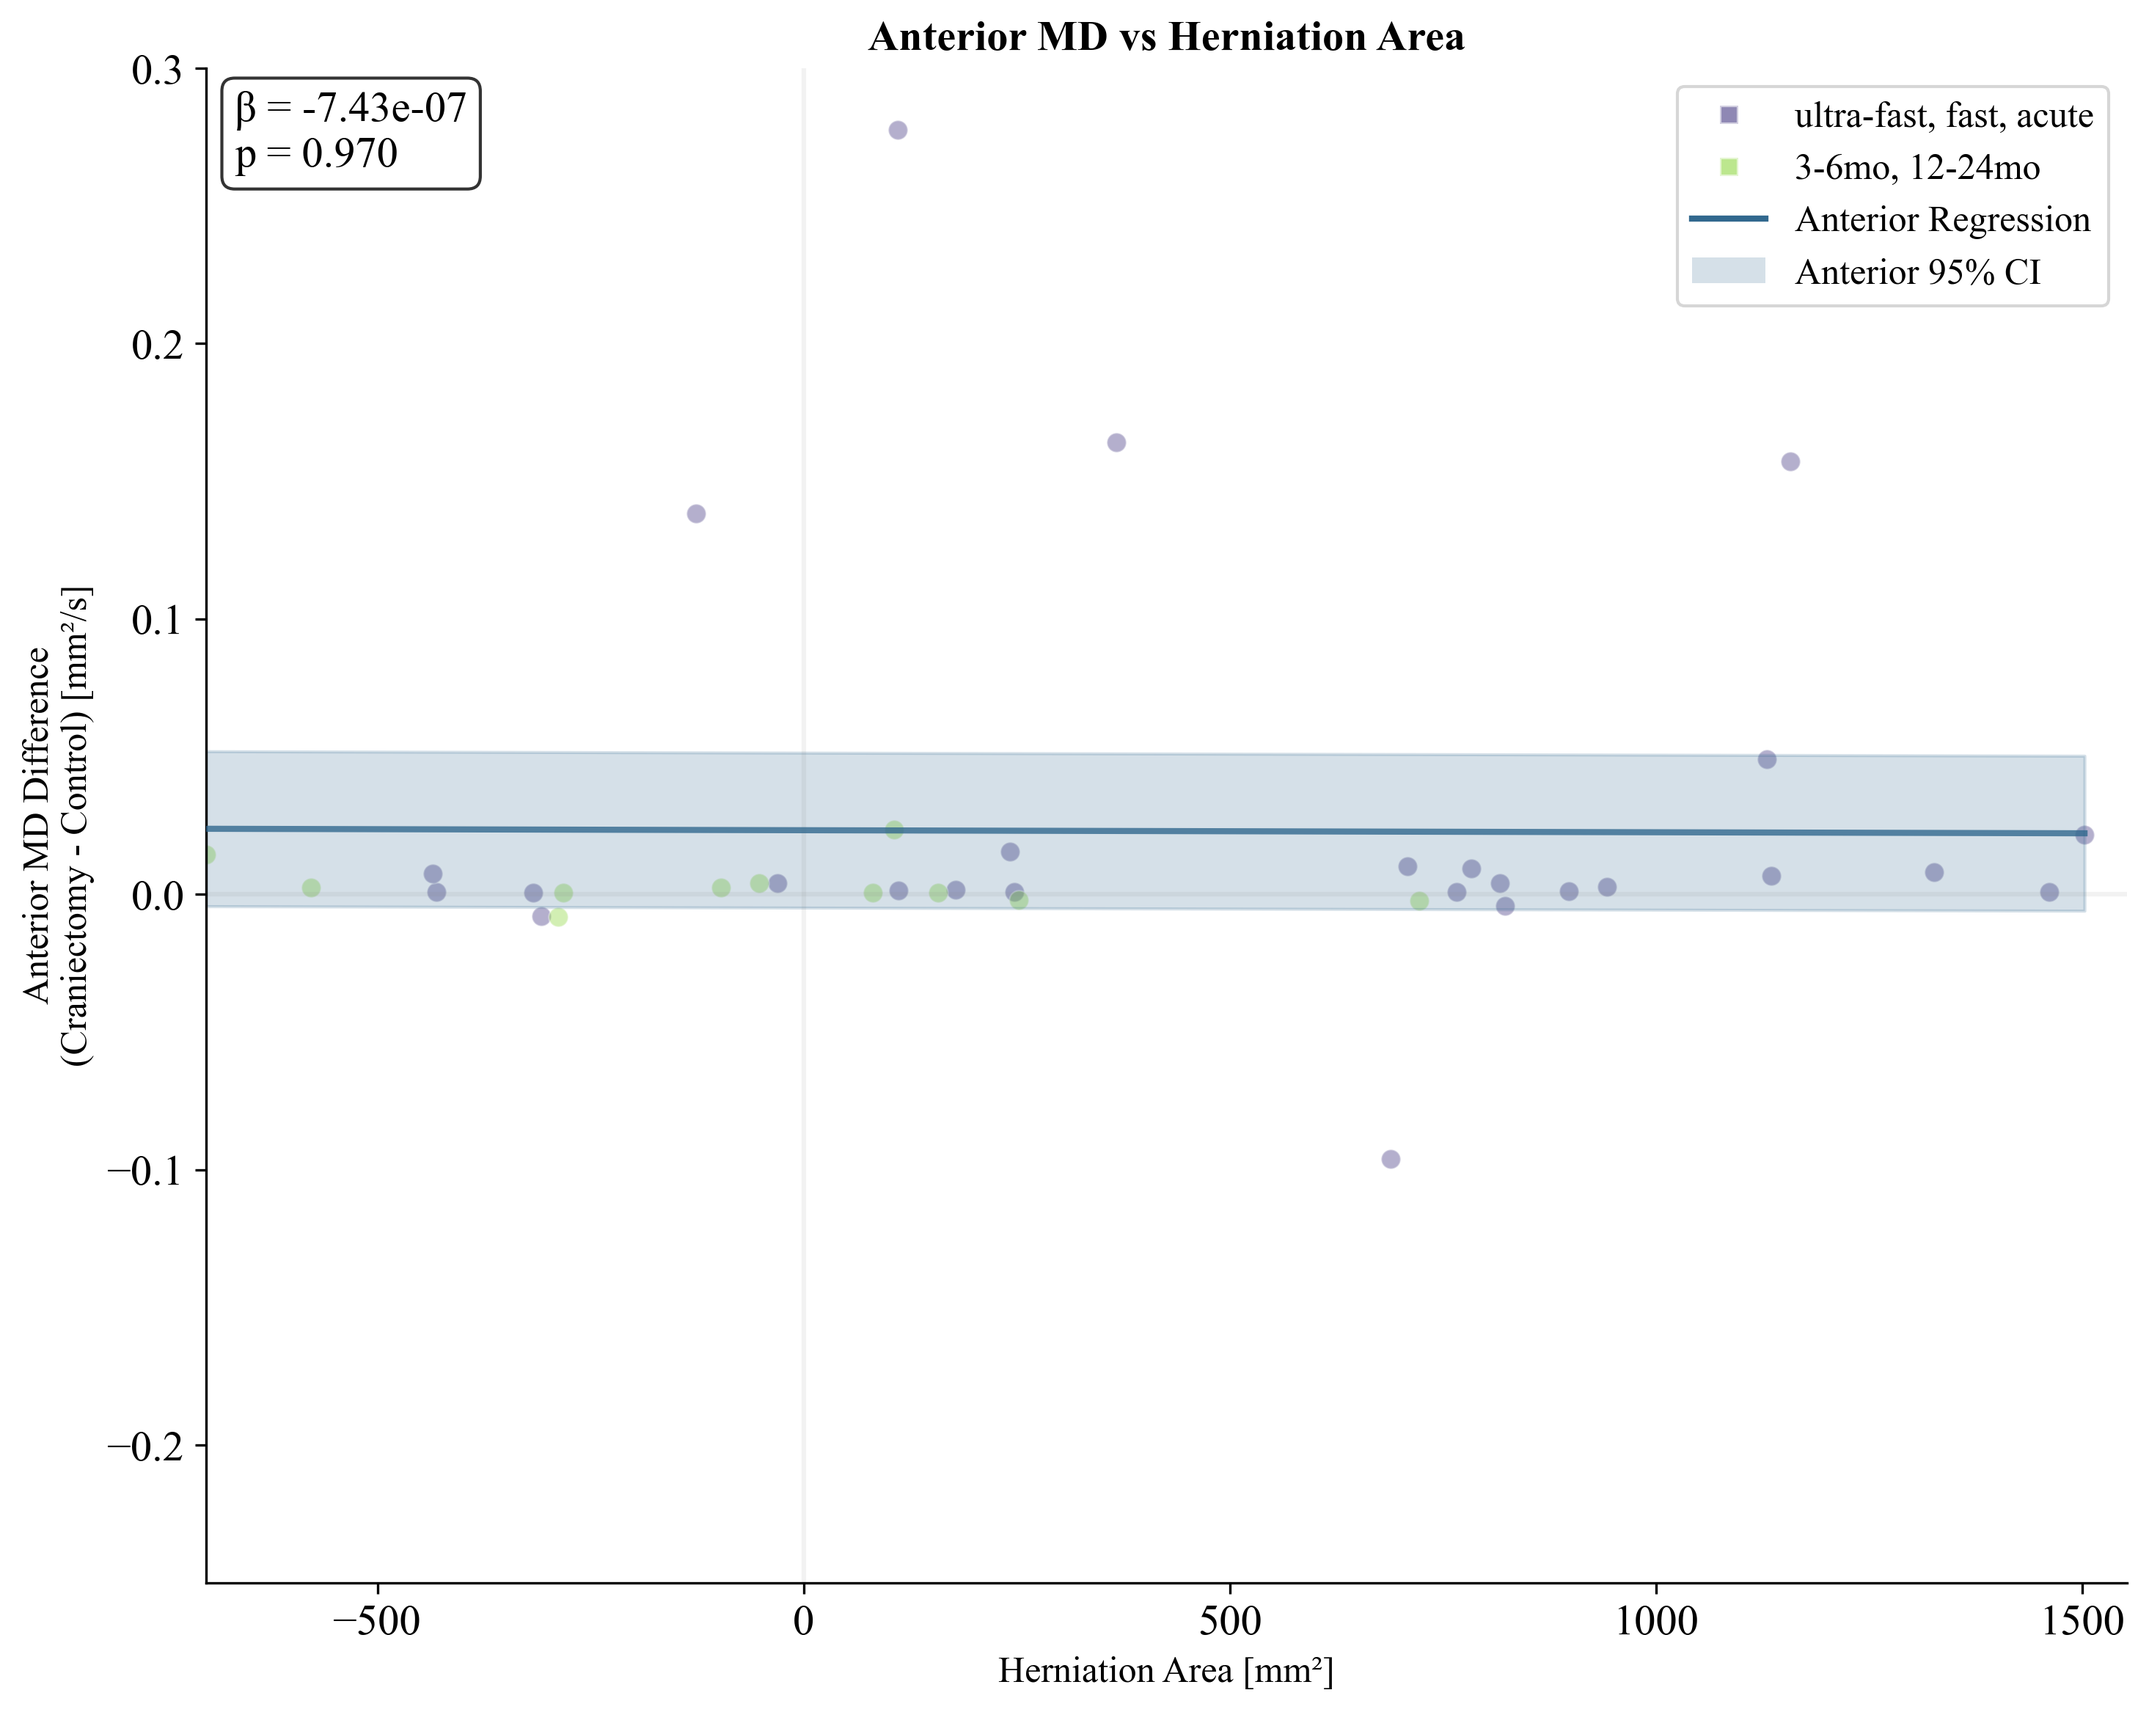
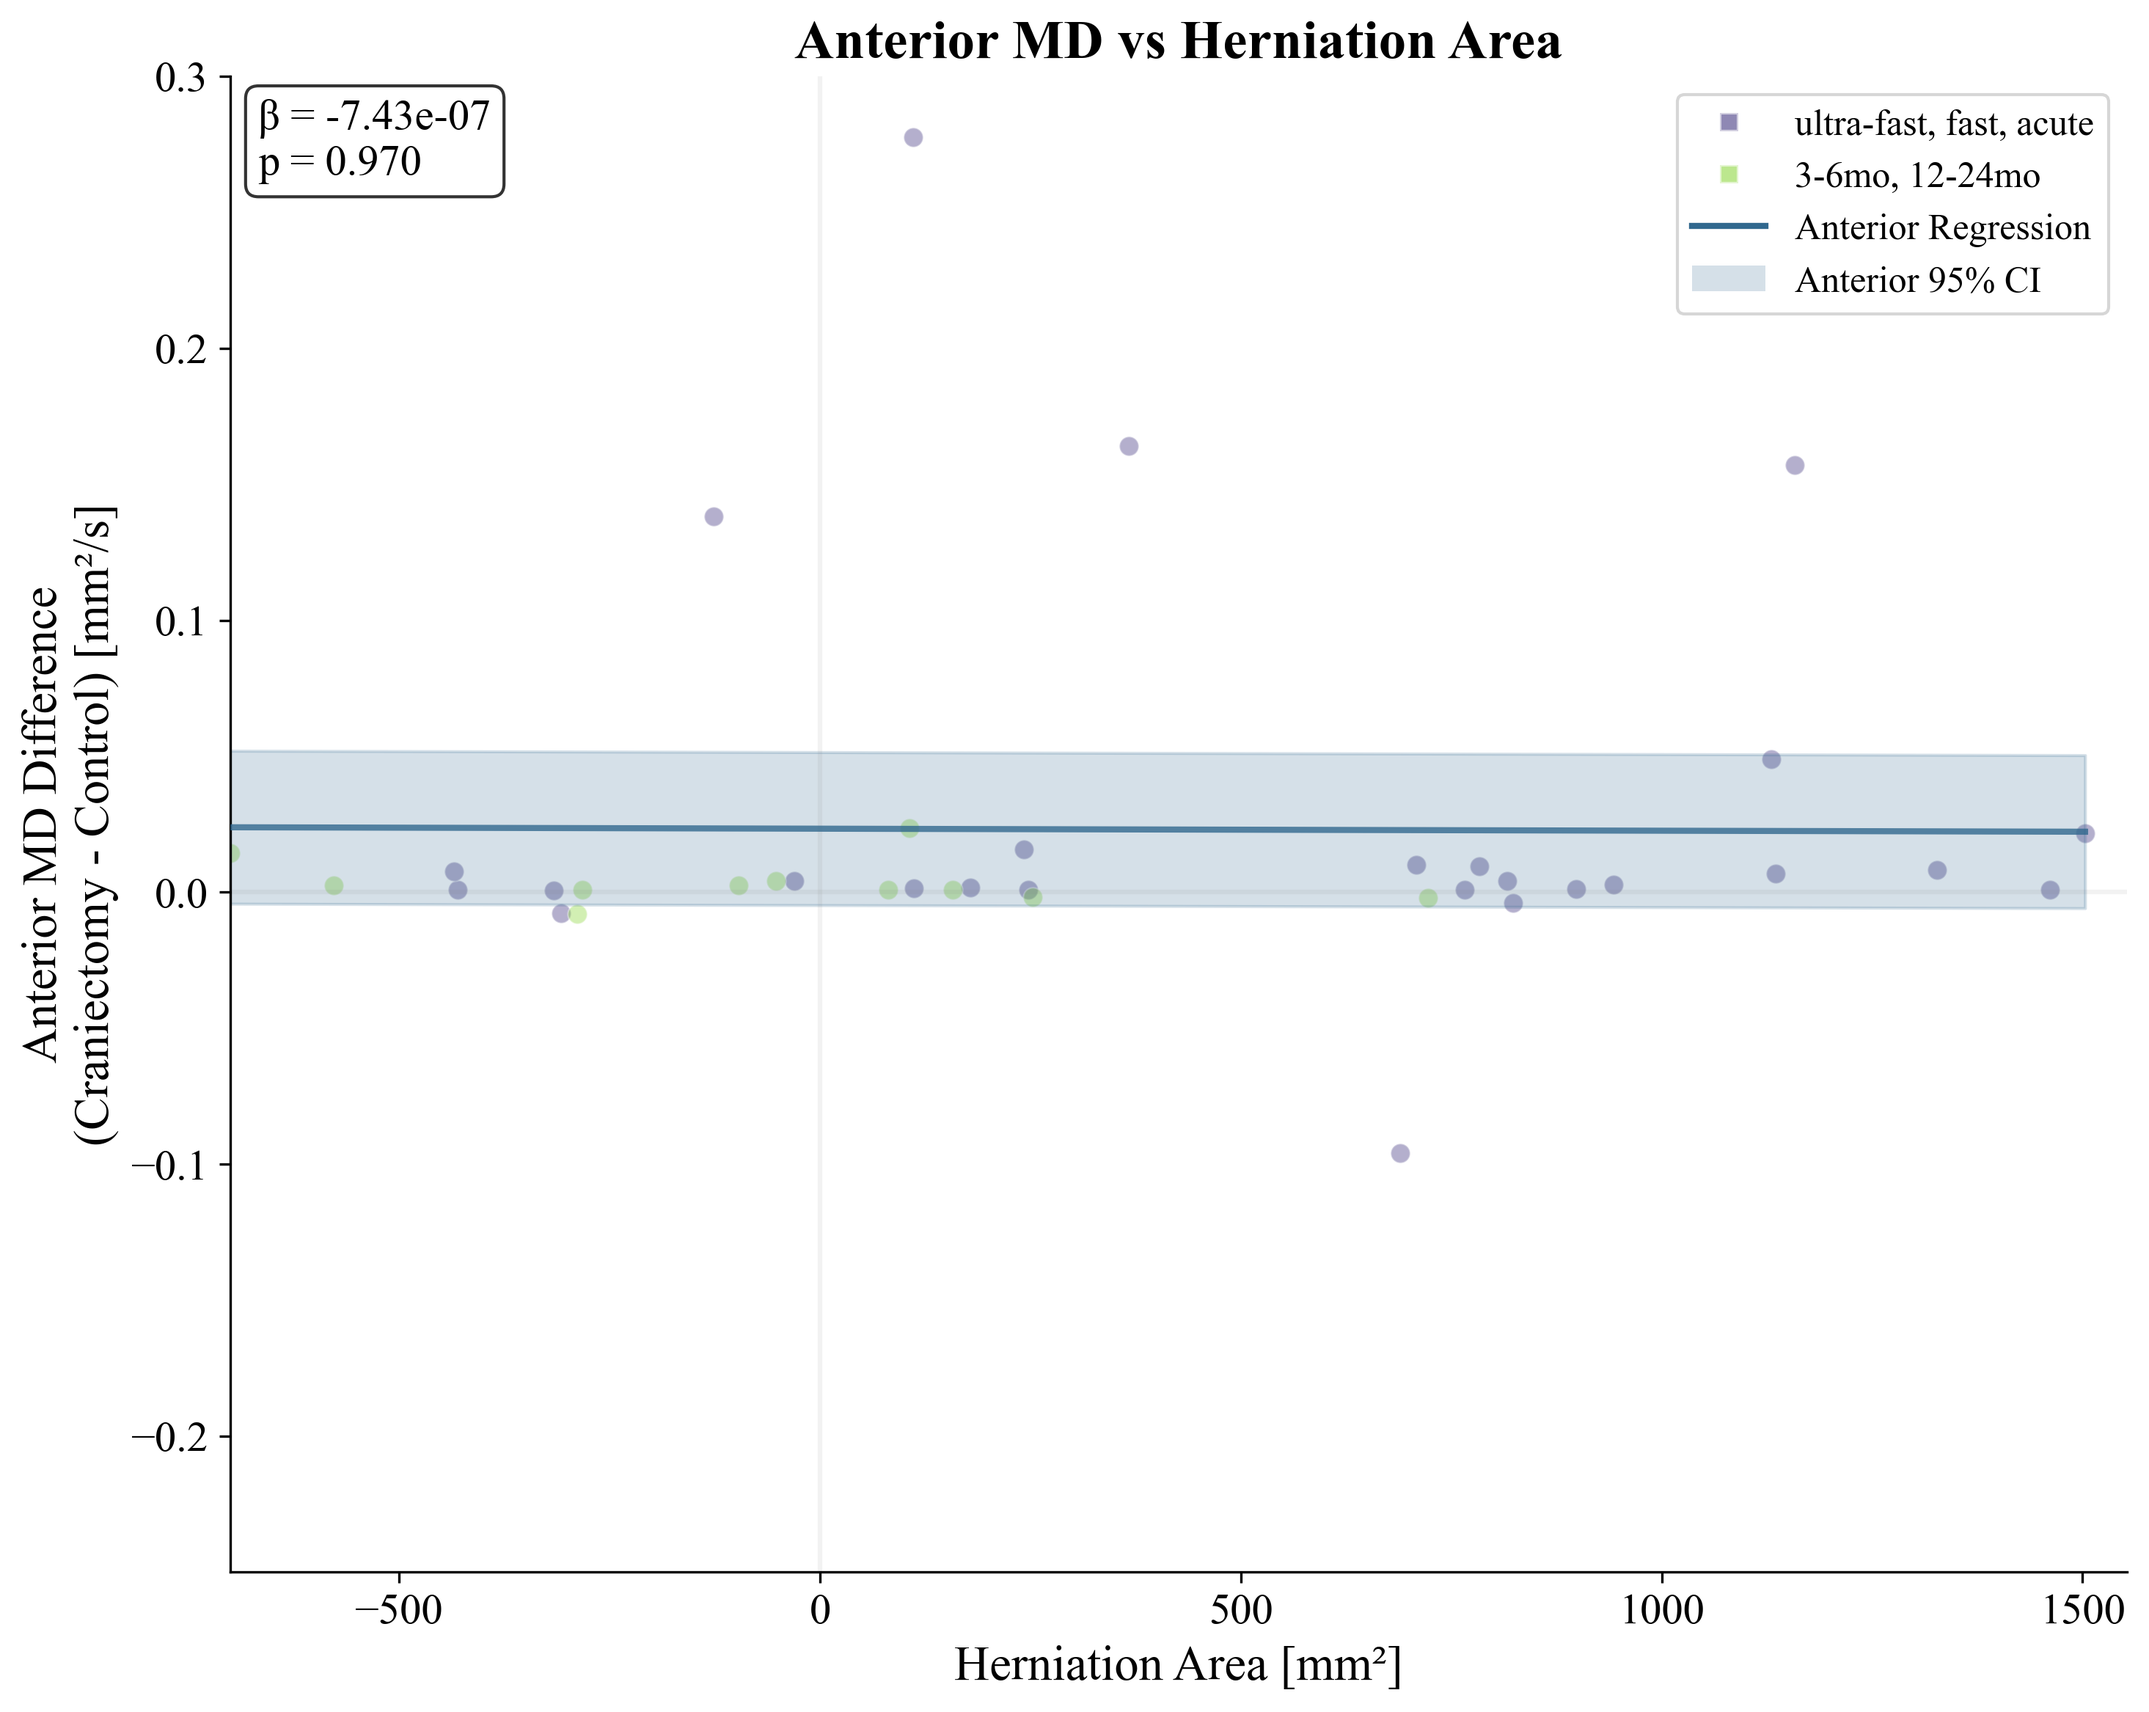
redo anterior MD vs herniation area plot

diff --git a/DTI_Processing_Scripts/dti_results_plotting_main.py b/DTI_Processing_Scripts/dti_results_plotting_main.py
@@ -1532,9 +1532,9 @@ def create_area_predicts_md_plot(df, result4, result5, show_combined=True, timep
                 verticalalignment='top', horizontalalignment='left', 
                 bbox=dict(boxstyle='round', facecolor='white', alpha=0.8)) #fontsize=14
         
-        ax1.set_xlabel('Herniation Area [mm²]', fontsize=12)
-        ax1.set_ylabel('Anterior MD Difference\n(Craniectomy - Control) [mm²/s]', fontsize=12)
-        ax1.set_title('Anterior MD vs Herniation Area', fontsize=14, fontweight='bold')
+        ax1.set_xlabel('Herniation Area [mm²]')#, fontsize=12)
+        ax1.set_ylabel('Anterior MD Difference\n(Craniectomy - Control) [mm²/s]')#, fontsize=12)
+        ax1.set_title('Anterior MD vs Herniation Area', fontweight='bold') #, fontsize=14,
         ax1.grid(False)
         ax1.axhline(y=0, color='gray', linestyle='-', alpha=0.1)
         ax1.axvline(x=0, color='gray', linestyle='-', alpha=0.1)
@@ -4397,31 +4397,31 @@ if __name__ == '__main__':
     # ####################
     # # DOES HERNIATION CAUSE MD_DIFF? 
     # # Model 4: Area predicts MD anterior (primary)
-    # print("****************************\nNEW_MODELS")
-    # model4 = smf.mixedlm("md_anterior_diff ~ area_diff", 
-    #                     data=wm_md_hern_combi, 
-    #                     groups=wm_md_hern_combi['patient_id'])
+    print("****************************\nNEW_MODELS")
+    model4 = smf.mixedlm("md_anterior_diff ~ area_diff", 
+                        data=wm_md_hern_combi, 
+                        groups=wm_md_hern_combi['patient_id'])
 
-    # # Model 5: Area predicts MD posterior (comparison) 
-    # model5 = smf.mixedlm("md_posterior_diff ~ area_diff", 
-    #                     data=wm_md_hern_combi, 
-    #                     groups=wm_md_hern_combi['patient_id'])
+    # Model 5: Area predicts MD posterior (comparison) 
+    model5 = smf.mixedlm("md_posterior_diff ~ area_diff", 
+                        data=wm_md_hern_combi, 
+                        groups=wm_md_hern_combi['patient_id'])
 
-    # # Model 6: Area predicts MD anterior (with timepoint control)
-    # model6 = smf.mixedlm("md_anterior_diff ~ area_diff + timepoint", 
-    #                     data=wm_md_hern_combi, 
-    #                     groups=wm_md_hern_combi['patient_id'])
+    # Model 6: Area predicts MD anterior (with timepoint control)
+    model6 = smf.mixedlm("md_anterior_diff ~ area_diff + timepoint", 
+                        data=wm_md_hern_combi, 
+                        groups=wm_md_hern_combi['patient_id'])
 
-    # # Model 7: Area predicts MD posterior (with timepoint control)
-    # model7 = smf.mixedlm("md_posterior_diff ~ area_diff + timepoint", 
-    #                     data=wm_md_hern_combi, 
-    #                     groups=wm_md_hern_combi['patient_id'])
+    # Model 7: Area predicts MD posterior (with timepoint control)
+    model7 = smf.mixedlm("md_posterior_diff ~ area_diff + timepoint", 
+                        data=wm_md_hern_combi, 
+                        groups=wm_md_hern_combi['patient_id'])
     
 
-    # result4=model4.fit()
-    # result5=model5.fit()
-    # result6=model6.fit()
-    # result7=model7.fit()
+    result4=model4.fit()
+    result5=model5.fit()
+    result6=model6.fit()
+    result7=model7.fit()
 
     # print("\nArea Predicts MD Anterior LME Summary:")
     # print_lme_summary_precise(result4,precision=8)
@@ -4443,9 +4443,9 @@ if __name__ == '__main__':
 
 
     
-    # create_area_predicts_md_plot(wm_md_hern_combi, result4, result5, show_combined=True)
-    # create_area_predicts_md_plot(wm_md_hern_combi, result4, result5, show_combined=False)
-
+    create_area_predicts_md_plot(wm_md_hern_combi, result4, result5, show_combined=True)
+    create_area_predicts_md_plot(wm_md_hern_combi, result4, result5, show_combined=False)
+    sys.exit()
 
 
     ###################
